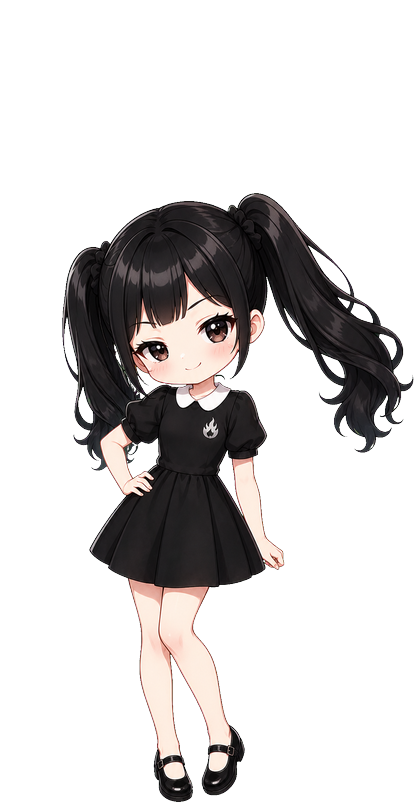
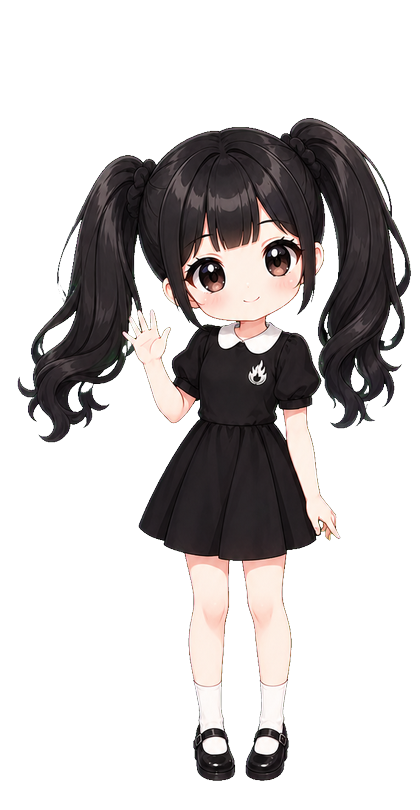
fix(ui): 桌宠改回日常慢动作，招手看书点头
每帧约 500ms，先停一拍；去掉扭胯甩发。戳一下也放慢。

diff --git a/web/src/components/FurnaceSprite.vue b/web/src/components/FurnaceSprite.vue
@@ -75,10 +75,10 @@ const props = defineProps({
 })
 defineEmits(['click'])
 
-const IDLE_LINES = ['有事叫我～', '点两下开熔炉。', '我就在这儿哦。', '今天先适配，还是先聊？']
-const WORK_LINES = ['在干活，稍等。', '改完再叫你。', '这边正忙着呢。']
-const WAIT_LINES = ['等人拍板。', '轮到你了哦。', '我等你开口。']
-const POKE_LINES = ['嗯？', '再戳就认真了。', '要开就点「开熔炉」。', '我在听。']
+const IDLE_LINES = ['有事叫我。', '点两下开熔炉。', '我就在这儿。', '先适配，还是先聊？']
+const WORK_LINES = ['在看书改东西，稍等。', '改完再叫你。', '这边忙着呢。']
+const WAIT_LINES = ['等人拍板。', '轮到你了。', '我等你开口。']
+const POKE_LINES = ['嗯？', '要开就点「开熔炉」。', '我在听。']
 
 const hovered = ref(false)
 const poking = ref(false)
@@ -166,7 +166,7 @@ function poke() {
   window.clearTimeout(pokeTimer)
   pokeTimer = window.setTimeout(() => {
     poking.value = false
-  }, 920)
+  }, 2800)
   const line = POKE_LINES[Math.floor(Math.random() * POKE_LINES.length)]
   say(line, 2800)
 }
@@ -372,11 +372,11 @@ onUnmounted(() => {
 }
 
 .furnace-pet.is-hover .furnace-pet-img {
-  transform: translateY(-2px);
+  transform: translateY(-1px);
 }
 
 .furnace-pet.is-poke .furnace-pet-img {
-  animation: furnace-poke 0.5s ease;
+  animation: furnace-poke 0.4s ease;
 }
 
 .furnace-pet-meta {
@@ -450,8 +450,8 @@ onUnmounted(() => {
   0% {
     transform: scale(1);
   }
-  35% {
-    transform: translateY(-10px) scale(1.06) rotate(-4deg);
+  40% {
+    transform: translateY(-3px) scale(1.02);
   }
   100% {
     transform: scale(1);

diff --git a/docs/assets/furnace-pet-frames/compose.py b/docs/assets/furnace-pet-frames/compose.py
@@ -15,10 +15,10 @@ WEB = Path(__file__).resolve().parents[3] / "web" / "src" / "assets"
 DOCS = Path(__file__).resolve().parents[1]
 
 SETS = {
-    "idle": (["idle-01.png", "idle-02.png", "idle-03.png", "idle-04.png"], 7, True, "furnace-idle.png"),
-    "working": (["work-01.png", "work-02.png", "work-03.png", "work-04.png"], 11, True, "furnace-working.png"),
-    "waiting": (["wait-01.png", "wait-02.png", "wait-03.png", "wait-04.png"], 6, True, "furnace-waiting.png"),
-    "poke": (["poke-01.png", "poke-02.png", "poke-03.png"], 8, False, None),
+    "idle": (["idle-01.png", "idle-02.png", "idle-03.png"], 2, True, "furnace-idle.png"),
+    "working": (["work-01.png", "work-02.png", "work-03.png"], 2, True, "furnace-working.png"),
+    "waiting": (["wait-01.png", "wait-02.png", "wait-03.png"], 2, True, "furnace-waiting.png"),
+    "poke": (["poke-01.png", "poke-02.png", "poke-03.png"], 2, False, None),
 }
 
 CANVAS_W, CANVAS_H = 420, 810
@@ -62,9 +62,10 @@ def fit_canvas(im: Image.Image) -> Image.Image:
 
 
 def pingpong(frames: list[Image.Image], loop_back: bool) -> list[Image.Image]:
+    held = [frames[0], frames[0], *frames]
     if not loop_back or len(frames) < 3:
-        return frames
-    return frames + frames[-2:0:-1]
+        return held
+    return held + frames[-2:0:-1]
 
 
 def ffmpeg_gif(frames: list[Image.Image], dest: Path, fps: int) -> None:

diff --git a/README.md b/README.md
@@ -23,7 +23,7 @@
 > Workflow 负责串起过程，人可以确认、拒绝、插队、绕行，也可以随时回来继续。
 
 <p align="center">
-  <img src="./docs/assets/furnace-pet.gif" alt="熔炉桌宠：黑裙双马尾少女，闲置扭胯循环" width="88" height="170" />
+  <img src="./docs/assets/furnace-pet.gif" alt="熔炉桌宠：黑裙双马尾少女，闲置慢慢招手" width="88" height="170" />
 </p>
 
 <img src="./docs/assets/screenshots/workbench-home.webp" alt="oh-my-co-work 工作台首页：居中欢迎区，口号含终端守护者与熔炉连接一切" width="100%" />
@@ -98,7 +98,7 @@
 
 <img src="./docs/assets/screenshots/furnace-workspace-chat.webp" alt="熔炉铺满页面：去颜色画面、底部输入、可缩小回三栏" width="100%" />
 
-- 桌宠三态循环 **GIF**（闲置扭胯 / 干活抱本 / 等人招手），戳一下另有短动画；系统要求减少动效时回退静图。
+- 桌宠三态慢循环 **GIF**（闲置招手打招呼 / 干活低头看书 / 等人轻轻点头），戳一下另有短动画；系统要求减少动效时回退静图。
 - 默认 **GUI**：欢迎卡说明能干啥；Grok 开口后只显示当前屏可读正文（去 TUI 框线和底栏）。底部输入、短指令芯片。附件落到熔炉 `inbox/`，发送时把相对路径写成一行写进同一进程（不是 Grok 原生传文件）。只留一张大卡通头像。
 - 开炉写入 `data/furnace/AGENTS.md` 短规则 + 约百字 `--prompt`（Windows 走 argv，不经 cmd 拼中文）。长文在 `ACTIVE.md`，禁止复述。不写 `~/.grok/AGENTS.md`。
 - **TUI**：原 Grok 终端。菜单和快捷键走这里。隐藏时不把 PTY 缩成几列。首次进入后切皮不拆终端。

diff --git a/docs/assets/furnace-pet-frames/README.md b/docs/assets/furnace-pet-frames/README.md
@@ -1,13 +1,14 @@
 # 熔炉桌宠分镜（进 git）
 
 合成循环 GIF 用的透明底分镜。运行时读的是 `web/src/assets/furnace-*.gif`。
+动作要日常、慢：每帧约 500ms，先停一拍再动。
 
 | 文件 | 接到哪套 GIF |
 |------|----------------|
-| `idle-01.png` … `idle-04.png` | `furnace-idle.gif` 闲置：扭胯、眨眼、发丝晃 |
-| `work-01.png` … `work-04.png` | `furnace-working.gif` 干活：抱笔记本、抬头、甩发 |
-| `wait-01.png` … `wait-04.png` | `furnace-waiting.gif` 等人：叉腰、招手、看你 |
-| `poke-01.png` … `poke-03.png` | `furnace-poke.gif` 戳一下：跳起、嘟嘴、回眸 |
+| `idle-01.png` … `idle-03.png` | `furnace-idle.gif` 闲置：站着、招手打招呼 |
+| `work-01.png` … `work-03.png` | `furnace-working.gif` 干活：低头看书 |
+| `wait-01.png` … `wait-03.png` | `furnace-waiting.gif` 等人：双手交叠、轻轻点头 |
+| `poke-01.png` … `poke-03.png` | `furnace-poke.gif` 戳一下：轻愣一下再招手 |
 
 改动作时先换这些 PNG（绿幕或透明均可），再跑：
 

diff --git a/docs/crucible-3x.md b/docs/crucible-3x.md
@@ -117,7 +117,7 @@
 
 ### 5.3 形象 Logo（已决）
 
-不替代工作台 [人·文档·机](./brand-logo.md)。卡通 **黑裙美少女** Q 版（三态循环 GIF：扭胯 / 干活 / 等人，戳一下另有短 GIF），贴在页面**右侧、距底约三分之一**当桌宠（首次展开看全身，可收成小身位），不进顶栏。可戳、可拖、会说话，点「开熔炉」或双击进 TUI。
+不替代工作台 [人·文档·机](./brand-logo.md)。卡通 **黑裙美少女** Q 版（三态慢循环 GIF：招手打招呼 / 低头看书 / 等人点头，戳一下另有短 GIF），贴在页面**右侧、距底约三分之一**当桌宠（首次展开看全身，可收成小身位），不进顶栏。可戳、可拖、会说话，点「开熔炉」或双击进 TUI。
 
 **三态**（卡通 Logo；系统要求减少动效时回退 PNG）：
 

diff --git a/docs/frontend-components.md b/docs/frontend-components.md
@@ -38,7 +38,7 @@ app.use(ElementPlusX)
 | 区域 | 组件 | 说明 |
 |------|------|------|
 | 壳层顶栏 | `App.vue` + `AppLogo` | 品牌 Logo + 分段导航 |
-| 熔炉桌宠 | `FurnaceSprite` | 贴右、距底约三分之一；三态循环 GIF + 戳一下；收起后仍是整个人 |
+| 熔炉桌宠 | `FurnaceSprite` | 贴右、距底约三分之一；慢循环 GIF（招手 / 看书 / 点头）+ 戳一下；收起后仍是整个人 |
 | 熔炉干活面头像 | `FurnaceAvatar` | 仅 GUI 大头；开干活面时藏桌宠 |
 | 熔炉 GUI 附件 | `FurnaceWorkspace` 附件栏 | 落到 `inbox/`，发送写成一行相对路径进 PTY（非 Grok 原生附件） |
 | Logo | `components/AppLogo.vue` · `assets/logo.svg` | **左人 · 中文档 · 右机**（人机协同办公）；见 [brand-logo.md](./brand-logo.md) |

diff --git a/CODE_CHANGE.md b/CODE_CHANGE.md
@@ -22,6 +22,11 @@ YYYY-MM-DD | A/M/D/R | 文件路径 | 一句话说明（改了什么、为什么
 
 ## 变更记录
 
+2026-08-21 | M | furnace-*.gif/png + pet-frames | 桌宠改回日常慢动作：招手、看书、点头
+2026-08-21 | D | idle-04 / work-04 / wait-04 | 少分镜，避免动作过多过快
+2026-08-21 | M | FurnaceSprite.vue | 放慢戳一下；气泡更日常
+2026-08-21 | M | README / crucible-3x / frontend-components / CODE_CHANGE.md | 同步慢循环口径
+
 2026-08-20 | M | packages/linux + win32 + darwin zip | 覆盖 3.7.0 三平台运行包（循环桌宠 + GUI 短合同）
 2026-08-20 | M | README / AGENT / crucible-3.7 / mvp | 同步桌宠 GIF、欢迎卡与短合同开炉
 2026-08-20 | A | docs/assets/furnace-pet-frames/* | 桌宠分镜 PNG + compose.py，全部进 git
